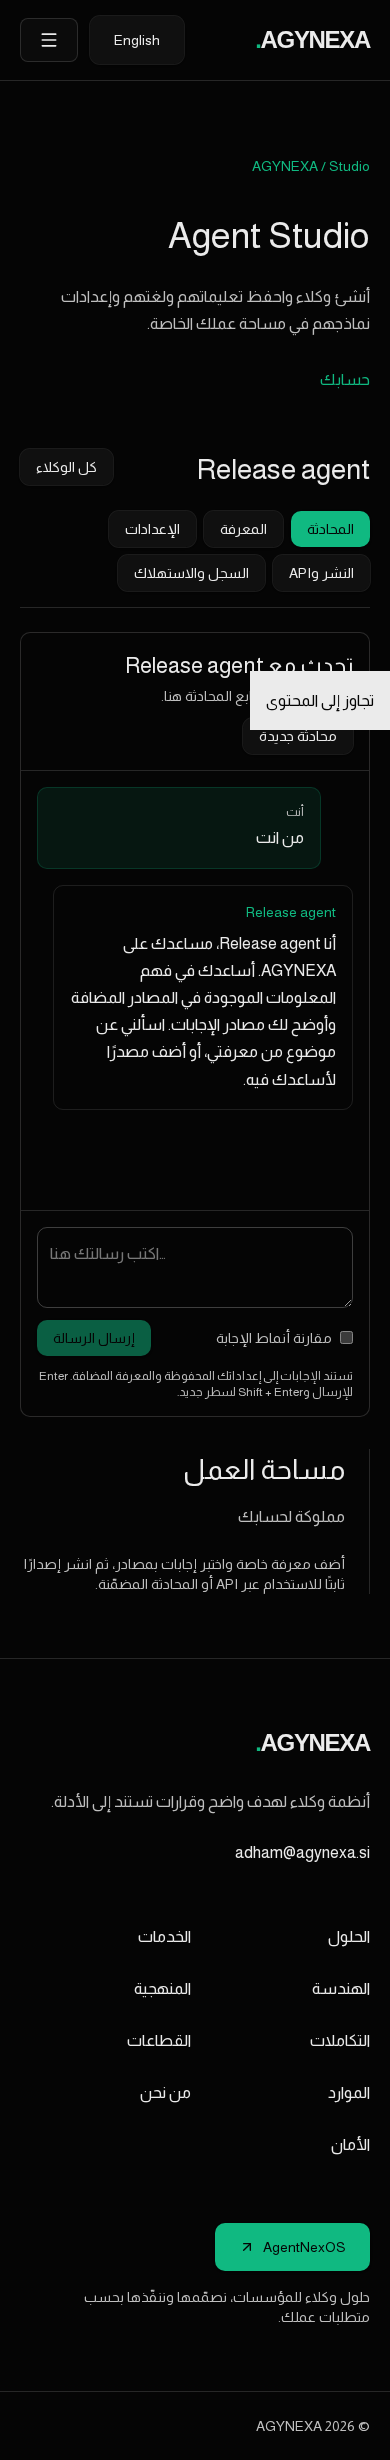
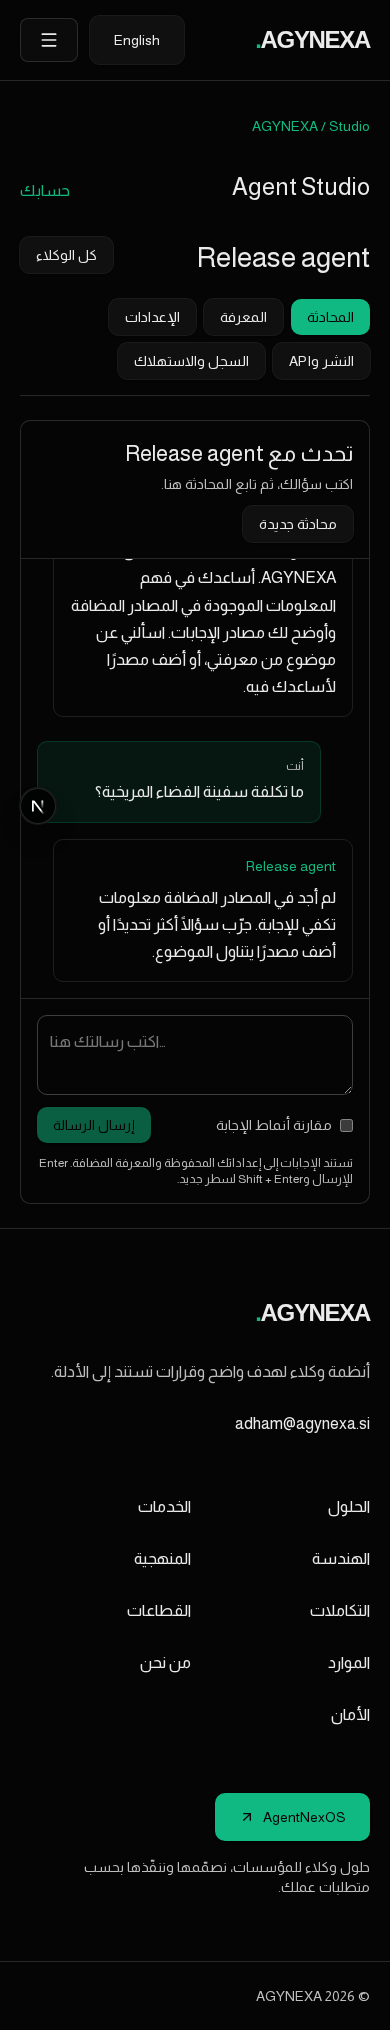
Record chat repair production receipt and interactive evidence

diff --git a/docs/agynexa-program/agent-studio/CHAT-FIX.md b/docs/agynexa-program/agent-studio/CHAT-FIX.md
@@ -11,3 +11,11 @@
 مراجعة السوق المعتمدة مقروءة في التسليم السابق ومطابقة مجددًا لهذه الفجوة: النطاق المحدود والأدلة والعزل باقية، مع إصلاح تجربة الوظيفة الأساسية. لا تحويل RFQ أو صور أو إعادة تصميم تسويقي. قرئ CONNECTED-DESIGN-TOOLS وDESIGN؛ الإصلاح يستخدم مكونات Button/Input والتوكنز القائمة، ولا يتطلب توليد أصل أو تشغيل موصل تصميم. لا مهاجرات أو تغيير Auth أو أسرار أو Hero.
 
 التحقق مجمع عند التسليم فقط: بناء و14 تحققًا منطقيًا موجهًا، ورحلة متصفح محلية بقاعدة معزولة حقيقية لرسالة «من أنت»، سؤال بلا دليل، عرض العربية390 والإنجليزية1440. لا حساب إنتاج مصطنع جديد. حالة التنفيذ والنشر الفعلية ستثبت في إيصال هذا المجلد؛ لا ينسب فحص محلي إلى الإنتاج.
+
+## إيصال التسليم
+
+نُشر المصدر `f58335441e8898e26e7710e6667cb4255fd7bb7b` عبر [PR #24](https://github.com/adham-younes/vzero/pull/24)، بتنفيذ `0d35130`. [Vercel](https://vercel.com/adhamlouxors-projects/vzero/7z3egyNdjf1KUkz948XuJ1H6wPd1) أنهى البناء بنجاح؛ العربية والإنجليزية أعادتا200. [فحص الإنتاج وحدوده](evidence/chat-fix/production.json).
+
+[الفحص التفاعلي المحلي](evidence/chat-fix/local.json) نجح بحساب معزول موجود وقاعدة حقيقية: تعريف عربي، امتناع عربي لسؤال بلا دليل، فتح المحادثة السابقة، أسماء أنماط مترجمة، ثم تعريف إنجليزي. لا overflow على390/1440 ولا أخطاء صفحة. لقطتا [العربية](evidence/chat-fix/studio-ar-390.png) و[الإنجليزية](evidence/chat-fix/studio-en-1440.png) من البيئة المحلية؛ لقطة chat-ar كانت قبل تقليل المساحة المحيطة بالمحادثة. ظهرت في أداة الفحص مشكلة locator ثم مهلة التجميع الأول لـdev، وعولجتا بإكمال الفحوص المتبقية فقط. لم تعاد حزمة المراحل السابقة أو استدلال Groq المدفوع، ولم ينشأ حساب إنتاج جديد. لذلك لا ندعي رحلة دخول/محادثة إنتاجية مصادقًا عليها في هذا الإصلاح.
+
+بناء محلي و14 تحققًا منطقيًا نجحا قبل التنقيح الأخير لتوزيع الواجهة؛ بناء Vercel تحقق من المصدر النهائي كاملًا. أخفي الشريط الجانبي والوصف المطول أثناء فتح الوكيل لتوسيع الدردشة. يمكن التراجع عن كود PR #24 دون إجراء بيانات؛ لا مهاجرات. الملاحظة السابقة بشأن تقطع الجلسات لم تُحسم بهذا التغيير.

diff --git a/docs/agynexa-program/RESUME.md b/docs/agynexa-program/RESUME.md
@@ -1,5 +1,7 @@
 # استئناف AGYNEXA
 
+الإصدار الأحدث: إصلاح تجربة المحادثة منشور عبر PR #24، مصدر `f583354`؛ [التقرير](agent-studio/CHAT-FIX.md) و[إيصال النشر](agent-studio/evidence/chat-fix/production.json). افتح الوكيل لتظهر المحادثة مباشرة، بأسماء أنماط واضحة ورد تعريف بلغة سؤالك.
+
 اكتمل نطاق Agent Studio A–E ونُشر إنتاجيًا بتفويض D-26. مصدر المنتج `b3665b8e91e223fc61883cb8703760b12a8c96ed` عبر PR #18 ثم #21 و#22. [التقرير الجاري](agent-studio/STAGES-CDE.md) و[إيصال الإنتاج](agent-studio/evidence/stage-cde/production.json). الموقع: https://vzero-nine-beryl.vercel.app/ar/studio. لا إعادة لمراحل الموقع 0–6 أو Studio A/B.
 
 يعمل حفظ الوكلاء، مصادر النص/TXT/Markdown، الاسترجاع بالكلمات والاستشهادات، Groq، المقارنة المتزامنة، موافقات طلب الدعم الداخلية، الإصدارات، API وwidget عام بمصادر معتمدة. GPT-OSS 120B و20B للإنتاج؛ Qwen Preview للتقييم الداخلي فقط. نجح الاستدلال الفعلي بالمفاتيح الثلاثة. لا تغيير للفيديو أو مكوّنيه أو المحتوى المعتمد.

diff --git a/docs/agynexa-program/README.md b/docs/agynexa-program/README.md
@@ -1,5 +1,7 @@
 # مركز توثيق AGYNEXA
 
+الإصدار الأحدث: إصلاح تجربة المحادثة منشور عبر PR #24، مصدر `f583354`؛ [التقرير](agent-studio/CHAT-FIX.md) و[إيصال النشر](agent-studio/evidence/chat-fix/production.json). افتح الوكيل لتظهر المحادثة مباشرة، بأسماء أنماط واضحة ورد تعريف بلغة سؤالك.
+
 الحالة الجارية: [Agent Studio C/D/E](agent-studio/STAGES-CDE.md) نُشر عبر PR #18 فوق الحسابات والموقع القائم. المصادر النصية والتشغيل والنشر وAPI وwidget منفذة. نتائج Groq والإيصال الفعلي في التقرير؛ استعادة الحساب والفوترة والتكاملات الخارجية فجوات منفصلة. توجيه المالك D-26 فوّض استكمال المراحل والنشر، مع تجميع الفحوص عند التسليم فقط.
 
 مراجعة السوق مطابقة بالكود: نحتفظ بالقالبين ومحرك واحد والعزل والموافقات والأدلة، ولا ننفذ تحويل RFQ أو إعادة تصميم أو خدمات عشر مستقلة. الفقرات والتقارير الأقدم أدناه تاريخية؛ STATUS وRESUME وتقرير C/D/E هي نقطة الاستئناف الحالية.

diff --git a/docs/agynexa-program/RELEASES.md b/docs/agynexa-program/RELEASES.md
@@ -83,3 +83,5 @@ D-26 يجيز إكمال C/D/E والنشر الإنتاجي، ويتقدم عل
 مصدر المنتج `b3665b8` عبر PR #18/#21/#22. A–E منشورة ضمن النطاق؛ نجح الاستدلال الفعلي والمقارنة والموافقة وAPI/widget والإيقاف. [التقرير](agent-studio/STAGES-CDE.md) و[الإيصال](agent-studio/evidence/stage-cde/production.json). ثلاث مهاجرات Studio مطبقة؛ لا تعاد حسب timestamps المحلية لأن MCP ولّد timestamps مستقلة. بقيت استعادة الحساب والفوترة والتكاملات الخارجية، وملاحظة استجابات جلسة متقطعة موثقة. لا إعادة للحزم العامة بعد هذا التسليم.
 
 تحديث بلاغ المحادثة: [إصلاح الدردشة واللغة وأسماء أنماط الإجابة](agent-studio/CHAT-FIX.md). تنفيذ محدود فوق Studio؛ حالة النشر في STATUS، دون إعادة البرنامج أو تغيير قاعدة البيانات.
+
+CHAT-UX: DEPLOYED عبر PR #24 / `f583354`. المحادثة الأساسية واللغة وأسماء أنماط الإجابة مصححة، مع تحقق تفاعلي محلي وإيصال نشر. [التقرير](agent-studio/CHAT-FIX.md).

diff --git a/docs/agynexa-program/STAGE-MATRIX.md b/docs/agynexa-program/STAGE-MATRIX.md
@@ -69,3 +69,5 @@ D-26 يجيز إكمال C/D/E والنشر الإنتاجي، ويتقدم عل
 مصدر المنتج `b3665b8` عبر PR #18/#21/#22. A–E منشورة ضمن النطاق؛ نجح الاستدلال الفعلي والمقارنة والموافقة وAPI/widget والإيقاف. [التقرير](agent-studio/STAGES-CDE.md) و[الإيصال](agent-studio/evidence/stage-cde/production.json). ثلاث مهاجرات Studio مطبقة؛ لا تعاد حسب timestamps المحلية لأن MCP ولّد timestamps مستقلة. بقيت استعادة الحساب والفوترة والتكاملات الخارجية، وملاحظة استجابات جلسة متقطعة موثقة. لا إعادة للحزم العامة بعد هذا التسليم.
 
 تحديث بلاغ المحادثة: [إصلاح الدردشة واللغة وأسماء أنماط الإجابة](agent-studio/CHAT-FIX.md). تنفيذ محدود فوق Studio؛ حالة النشر في STATUS، دون إعادة البرنامج أو تغيير قاعدة البيانات.
+
+CHAT-UX: DEPLOYED عبر PR #24 / `f583354`. المحادثة الأساسية واللغة وأسماء أنماط الإجابة مصححة، مع تحقق تفاعلي محلي وإيصال نشر. [التقرير](agent-studio/CHAT-FIX.md).

diff --git a/docs/agynexa-program/BACKLOG.md b/docs/agynexa-program/BACKLOG.md
@@ -95,3 +95,5 @@
 D-26 يجيز إكمال C/D/E والنشر الإنتاجي، ويتقدم على نقاط التوقف التاريخية أعلاه. [تقرير التنفيذ والقيود](agent-studio/STAGES-CDE.md) و[STATUS](STATUS.json) هما المرجع الجاري. تجمّع الفحوص عند التسليم فقط. القالبان فوق محرك واحد؛ الاستعادة والفوترة والتكاملات الخارجية غير مكتملة. لا تغييرات Auth أو بريد.
 
 تحديث بلاغ المحادثة: [إصلاح الدردشة واللغة وأسماء أنماط الإجابة](agent-studio/CHAT-FIX.md). تنفيذ محدود فوق Studio؛ حالة النشر في STATUS، دون إعادة البرنامج أو تغيير قاعدة البيانات.
+
+CHAT-UX: DEPLOYED عبر PR #24 / `f583354`. المحادثة الأساسية واللغة وأسماء أنماط الإجابة مصححة، مع تحقق تفاعلي محلي وإيصال نشر. [التقرير](agent-studio/CHAT-FIX.md).
